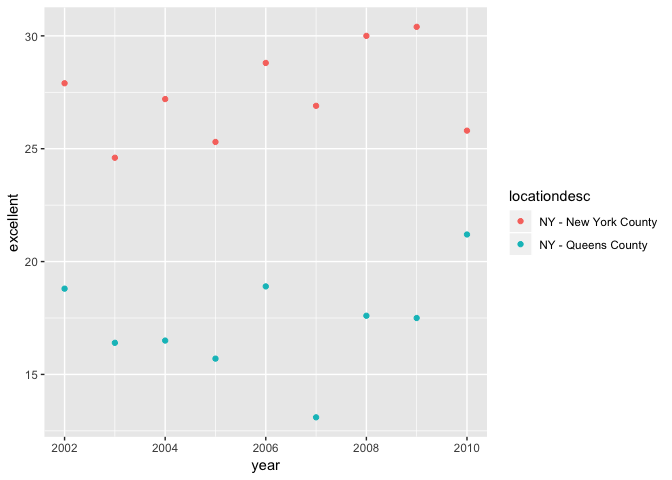
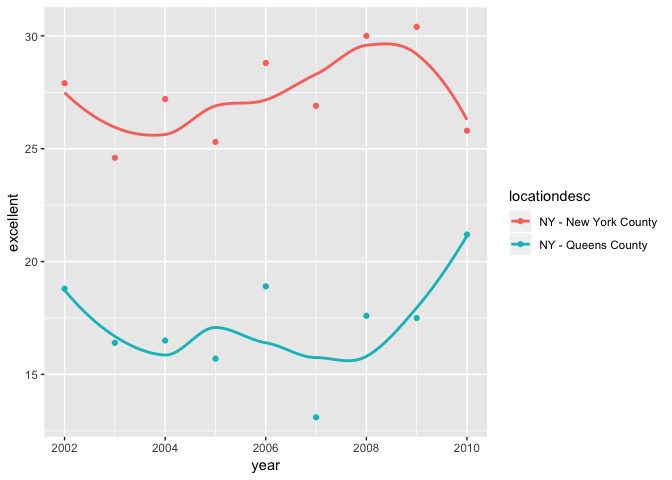
Final Edit

diff --git a/p8105_hw2_xy2395.md b/p8105_hw2_xy2395.md
@@ -21,7 +21,23 @@ data_nysubway =
   janitor::clean_names() %>% 
   select(-division, -exit_only, -(staffing:staff_hours), -(ada_notes:entrance_location)) %>% 
   mutate( entry = recode(entry, "YES" = TRUE, "NO" = FALSE))
+
+head(data_nysubway)
 ```
+
+    ## # A tibble: 6 x 19
+    ##   line  station_name station_latitude station_longitu… route1 route2 route3
+    ##   <chr> <chr>                   <dbl>            <dbl> <chr>  <chr>  <chr> 
+    ## 1 4 Av… 25th St                  40.7            -74.0 R      <NA>   <NA>  
+    ## 2 4 Av… 25th St                  40.7            -74.0 R      <NA>   <NA>  
+    ## 3 4 Av… 36th St                  40.7            -74.0 N      R      <NA>  
+    ## 4 4 Av… 36th St                  40.7            -74.0 N      R      <NA>  
+    ## 5 4 Av… 36th St                  40.7            -74.0 N      R      <NA>  
+    ## 6 4 Av… 45th St                  40.6            -74.0 R      <NA>   <NA>  
+    ## # ... with 12 more variables: route4 <chr>, route5 <chr>, route6 <chr>,
+    ## #   route7 <chr>, route8 <int>, route9 <int>, route10 <int>,
+    ## #   route11 <int>, entrance_type <chr>, entry <lgl>, vending <chr>,
+    ## #   ada <lgl>
 
 The code above
 
@@ -34,6 +50,7 @@ The code above
 A datailed list of variables in this dataset is shown below:
 
 ``` r
+# Show all the variables in data_nysubway
 names(data_nysubway)
 ```
 
@@ -50,9 +67,13 @@ Questions
 
 ### Question 1
 
+How many distinct stations are there?
+
 ``` r
-data_nysubway = mutate(data_nysubway, station_name_line = paste(station_name, line) )
+data_nysubway = mutate(data_nysubway, station_name_line = paste(station_name, line))
 distinct_station_name_line = distinct(data_nysubway, station_name_line)
+
+# Count the rows in distinct_station_name_line
 nrow(distinct_station_name_line)
 ```
 
@@ -62,11 +83,16 @@ There are 465 stations.
 
 ### Question 2
 
+How many stations are ADA compliant?
+
 ``` r
-data_nysubway %>% 
+distinct_ada_compliant = 
+  data_nysubway %>% 
   filter(ada == TRUE) %>% 
-  distinct(station_name_line) %>% 
-  nrow()
+  distinct(station_name_line)
+
+# Count the rows in distinct_ada_compliant
+nrow(distinct_ada_compliant)
 ```
 
     ## [1] 84
@@ -75,18 +101,23 @@ There are 84 ADA compliant stations.
 
 ### Question 3
 
+What proportion of station entrances / exits without vending allow entrance?
+
 ``` r
+# Number of entrances / exits without vending
 n_without_vending =
   data_nysubway %>% 
   filter( vending == "NO") %>% 
   nrow()
 
+# Number of entrances / exits without vending that allow entrance
 n_without_vending_allow_entrance = 
   data_nysubway %>% 
   filter( vending == "NO") %>% 
   filter( entry == TRUE) %>% 
   nrow()
 
+# Calculate the proportion this question asks for
 n_without_vending_allow_entrance / n_without_vending
 ```
 
@@ -96,14 +127,18 @@ The proportion of station entrances / exits without vending allow entrance is 0.
 
 ### Question 4
 
-Use `gather` to tidy the data so that each value in the previous variables (from `route1` to `route11`) is gathered into a new variable `route_served`. Then filter out rows containing `NA`s in the `route_served` variable and delete the unnecessary `route_number` variable.
+Reformat data so that route number and route name are distinct variables. How many distinct stations serve the A train? Of the stations that serve the A train, how many are ADA compliant?
+
+The code below uses `gather` to tidy the data so that each value in the previous variables (from `route1` to `route11`) is gathered into a new variable `route_served`. Then filter out rows containing `NA`s in the `route_served` variable and delete the unnecessary `route_number` variable.
 
 ``` r
+# Tidy the dataset
 tidy_data_nysubway = 
   gather(data_nysubway, key = route_number, value = route_served, route1:route11) %>% 
   filter(route_served != 'NA') %>% 
   select(-route_number)
 
+# Count distinct stations serving the A train
 tidy_data_nysubway %>% 
   filter(route_served == "A") %>% 
   distinct(station_name_line) %>% 
@@ -113,6 +148,7 @@ tidy_data_nysubway %>%
     ## [1] 60
 
 ``` r
+# Count ADA compliant stations that serve the A train
 tidy_data_nysubway %>% 
   filter(route_served == "A") %>% 
   filter(ada == TRUE) %>% 
@@ -130,16 +166,35 @@ Problem 2
 Mr. Trash Wheel Dataset
 -----------------------
 
+Import the Mr. Trash Wheel dataset from the `.xlsx` file and clean the variable names, then omit rows that do not include dumpster-specific data. Further, round the number of sports balls to the nearest integer and converts the result to an integer variable using `as.integer`.
+
 ``` r
 data_mrtw = 
   read_excel("./data/HealthyHarborWaterWheelTotals2017-9-26.xlsx",range = 'A2:N256') %>% 
   janitor::clean_names() %>% 
   filter(dumpster != "NA") %>% 
   mutate(sports_balls = as.integer(sports_balls))
+
+head(data_mrtw)
 ```
+
+    ## # A tibble: 6 x 14
+    ##   dumpster month  year date                weight_tons volume_cubic_ya…
+    ##      <dbl> <chr> <dbl> <dttm>                    <dbl>            <dbl>
+    ## 1        1 May    2014 2014-05-16 00:00:00        4.31               18
+    ## 2        2 May    2014 2014-05-16 00:00:00        2.74               13
+    ## 3        3 May    2014 2014-05-16 00:00:00        3.45               15
+    ## 4        4 May    2014 2014-05-17 00:00:00        3.1                15
+    ## 5        5 May    2014 2014-05-17 00:00:00        4.06               18
+    ## 6        6 May    2014 2014-05-20 00:00:00        2.71               13
+    ## # ... with 8 more variables: plastic_bottles <dbl>, polystyrene <dbl>,
+    ## #   cigarette_butts <dbl>, glass_bottles <dbl>, grocery_bags <dbl>,
+    ## #   chip_bags <dbl>, sports_balls <int>, homes_powered <dbl>
 
 Precipitation Dataset
 ---------------------
+
+The following code trunk reads and cleans precipitation data for 2016 and 2017. For each, omit rows without precipitation data and add a variable year. Next, combine datasets and convert month to a character variable.
 
 ``` r
 data_prcpttn_2016 = 
@@ -154,15 +209,29 @@ data_prcpttn_2017 =
     filter(total != "NA") %>% 
     mutate(year = 2017)
 
+# Combine datasets for years 2016 and 2017
 data_prcpttn = bind_rows(data_prcpttn_2016, data_prcpttn_2017) %>% 
     mutate(month = month.name[month]) %>% 
     select(year, month, total)
+
+# Check the combined dataset
+head(data_prcpttn)
 ```
+
+    ## # A tibble: 6 x 3
+    ##    year month    total
+    ##   <dbl> <chr>    <dbl>
+    ## 1  2016 January   3.23
+    ## 2  2016 February  5.32
+    ## 3  2016 March     2.24
+    ## 4  2016 April     1.78
+    ## 5  2016 May       5.19
+    ## 6  2016 June      3.2
 
 Interpretation
 --------------
 
-There are 215 observations and 14 variables in the Mr. Trash Wheel dataset, and 20 observations and 3 variables in the precipitation dataset. Key variables in the Mr. Trash Wheel dataset include `dumpster`, `weight_tons`, number of different items (such as `sports_balls`) and `homes_powered`. For the precipitation dataset, the key variable is `total` which denotes the volumn of precipitation for each month. The total precipitation in 2017 was 29.93. The median number of sports balls in a dumpster in 2016 was 26.
+There are 215 observations and 14 variables in the Mr. Trash Wheel dataset, and 20 observations and 3 variables in the precipitation dataset. Key variables in the Mr. Trash Wheel dataset include `dumpster`, `weight_tons`, number of different items (such as `sports_balls`) and `homes_powered`. For the precipitation dataset, the key variable is `total`, which denotes the volumn of precipitation for each month. The total precipitation in 2017 was 29.93. The median number of sports balls in a dumpster in 2016 was 26.
 
 Problem 3
 =========
@@ -202,6 +271,8 @@ structured_brfss =
 Questions
 ---------
 
+### Summary of Answers
+
 -   There are 404 unique locations included in the dataset.
 -   There are 51 distinct locations in the variable `locationabbr`, representing all the 50 states and DC.
 -   NJ is observed the most.
@@ -209,7 +280,9 @@ Questions
 
 Code calculating these questions are shown below:
 
-Q1. How many unique locations are included in the dataset?
+### Question 1
+
+How many unique locations are included in the dataset?
 
 ``` r
 distinct(structured_brfss, locationdesc) %>% 
@@ -218,22 +291,52 @@ distinct(structured_brfss, locationdesc) %>%
 
     ## [1] 404
 
-Q2. Is every state represented?
+There are 404 unique locations (counties) in the dataset.
+
+### Question 2
+
+Is every state represented?
 
 ``` r
-distinct(structured_brfss, locationabbr) %>% 
-  nrow()
+distinct_locations = distinct(structured_brfss, locationabbr) 
+
+# number of distinct locations
+nrow(distinct_locations)
 ```
 
     ## [1] 51
 
-Q3. What state is observed the most?
+``` r
+# check if each state is represented
+state.abb %in% distinct_locations$locationabbr 
+```
+
+    ##  [1] TRUE TRUE TRUE TRUE TRUE TRUE TRUE TRUE TRUE TRUE TRUE TRUE TRUE TRUE
+    ## [15] TRUE TRUE TRUE TRUE TRUE TRUE TRUE TRUE TRUE TRUE TRUE TRUE TRUE TRUE
+    ## [29] TRUE TRUE TRUE TRUE TRUE TRUE TRUE TRUE TRUE TRUE TRUE TRUE TRUE TRUE
+    ## [43] TRUE TRUE TRUE TRUE TRUE TRUE TRUE TRUE
+
+``` r
+# Why 51 distinct locations out of 50 states?
+distinct_locations = 
+(distinct_locations$locationabbr %in% state.abb) %>% 
+  mutate(distinct_locations, is_state = .)
+# Find out the 1 more location
+distinct_locations$locationabbr[which(distinct_locations$is_state == FALSE)]
+```
+
+    ## [1] "DC"
+
+Yes, each of the 50 states is represented, and DC is also observed.
+
+### Question 3
+
+What state is observed the most?
 
 ``` r
 states_observed_ordered_list = 
   count(structured_brfss, locationabbr) %>% 
   arrange(desc(n)) 
-
 head(states_observed_ordered_list)
 ```
 
@@ -248,12 +351,17 @@ head(states_observed_ordered_list)
     ## 6 MA              79
 
 ``` r
+# Full name of the state ranked 1st
 state.name[which(state.abb == states_observed_ordered_list$locationabbr[1])]
 ```
 
     ## [1] "New Jersey"
 
-Q4. In 2002, what is the median of the “Excellent” response value?
+NJ (New Jersy) is observed the most.
+
+### Question 4
+
+In 2002, what is the median of the “Excellent” response value?
 
 ``` r
 structured_brfss_2002 = filter(structured_brfss, year == 2002) 
@@ -261,6 +369,8 @@ median(structured_brfss_2002$excellent, na.rm = TRUE)
 ```
 
     ## [1] 23.6
+
+The median is 23.6.
 
 Graphs
 ------
@@ -271,10 +381,10 @@ Make a histogram of “Excellent” response values in the year 2002.
 
 ``` r
 ggplot(structured_brfss_2002, aes(x = excellent)) + 
-  geom_histogram(binwidth = 1, na.rm = T)
+  geom_histogram(binwidth = 1, na.rm = T) 
 ```
 
-![](p8105_hw2_xy2395_files/figure-markdown_github/unnamed-chunk-17-1.png)
+![](p8105_hw2_xy2395_files/figure-markdown_github/unnamed-chunk-16-1.png)
 
 ### Scatterplot
 
@@ -286,8 +396,11 @@ structured_brfss_ny =
   filter(year>=2002, year<=2010) %>% 
   filter(locationdesc == "NY - Queens County" | locationdesc ==  "NY - New York County")
 
-ggplot(structured_brfss_ny, aes(x = year, y = excellent)) + 
-  geom_point(aes(color = locationdesc))
+ggplot(structured_brfss_ny, aes(x = year, y = excellent, color = locationdesc)) + 
+  geom_point() +
+  geom_smooth (se = FALSE)
 ```
 
-![](p8105_hw2_xy2395_files/figure-markdown_github/unnamed-chunk-18-1.png)
+    ## `geom_smooth()` using method = 'loess' and formula 'y ~ x'
+
+![](p8105_hw2_xy2395_files/figure-markdown_github/unnamed-chunk-17-1.png)
